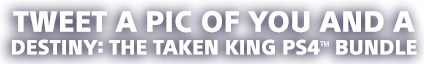
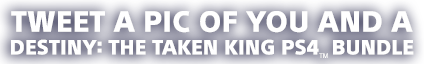
Frame 2, TM should be subscript (not superscript)

Changed region(s): [[0.0, 0.1562, 0.9811, 0.5312], [0.0307, 0.5625, 1.0, 1.0]]

diff --git a/DestinyTakenKing728x90/Animation.js b/DestinyTakenKing728x90/Animation.js
@@ -61,7 +61,7 @@ home_animation = (function() {
 		TweenLite.to(prize, 0.4, {opacity: 0, ease: Linear.eastOut});
 		TweenLite.to(enter, 0.4, {opacity: 0, display: 'none', ease: Linear.easeOut});
 		TweenLite.to(tweet, 0.3, {delay:.5, display: 'block', opacity: 1, ease: Linear.easeIn});
-		TweenLite.delayedCall(4, frame3);
+		// TweenLite.delayedCall(4, frame3);
 	}
 	
 	function frame3()
